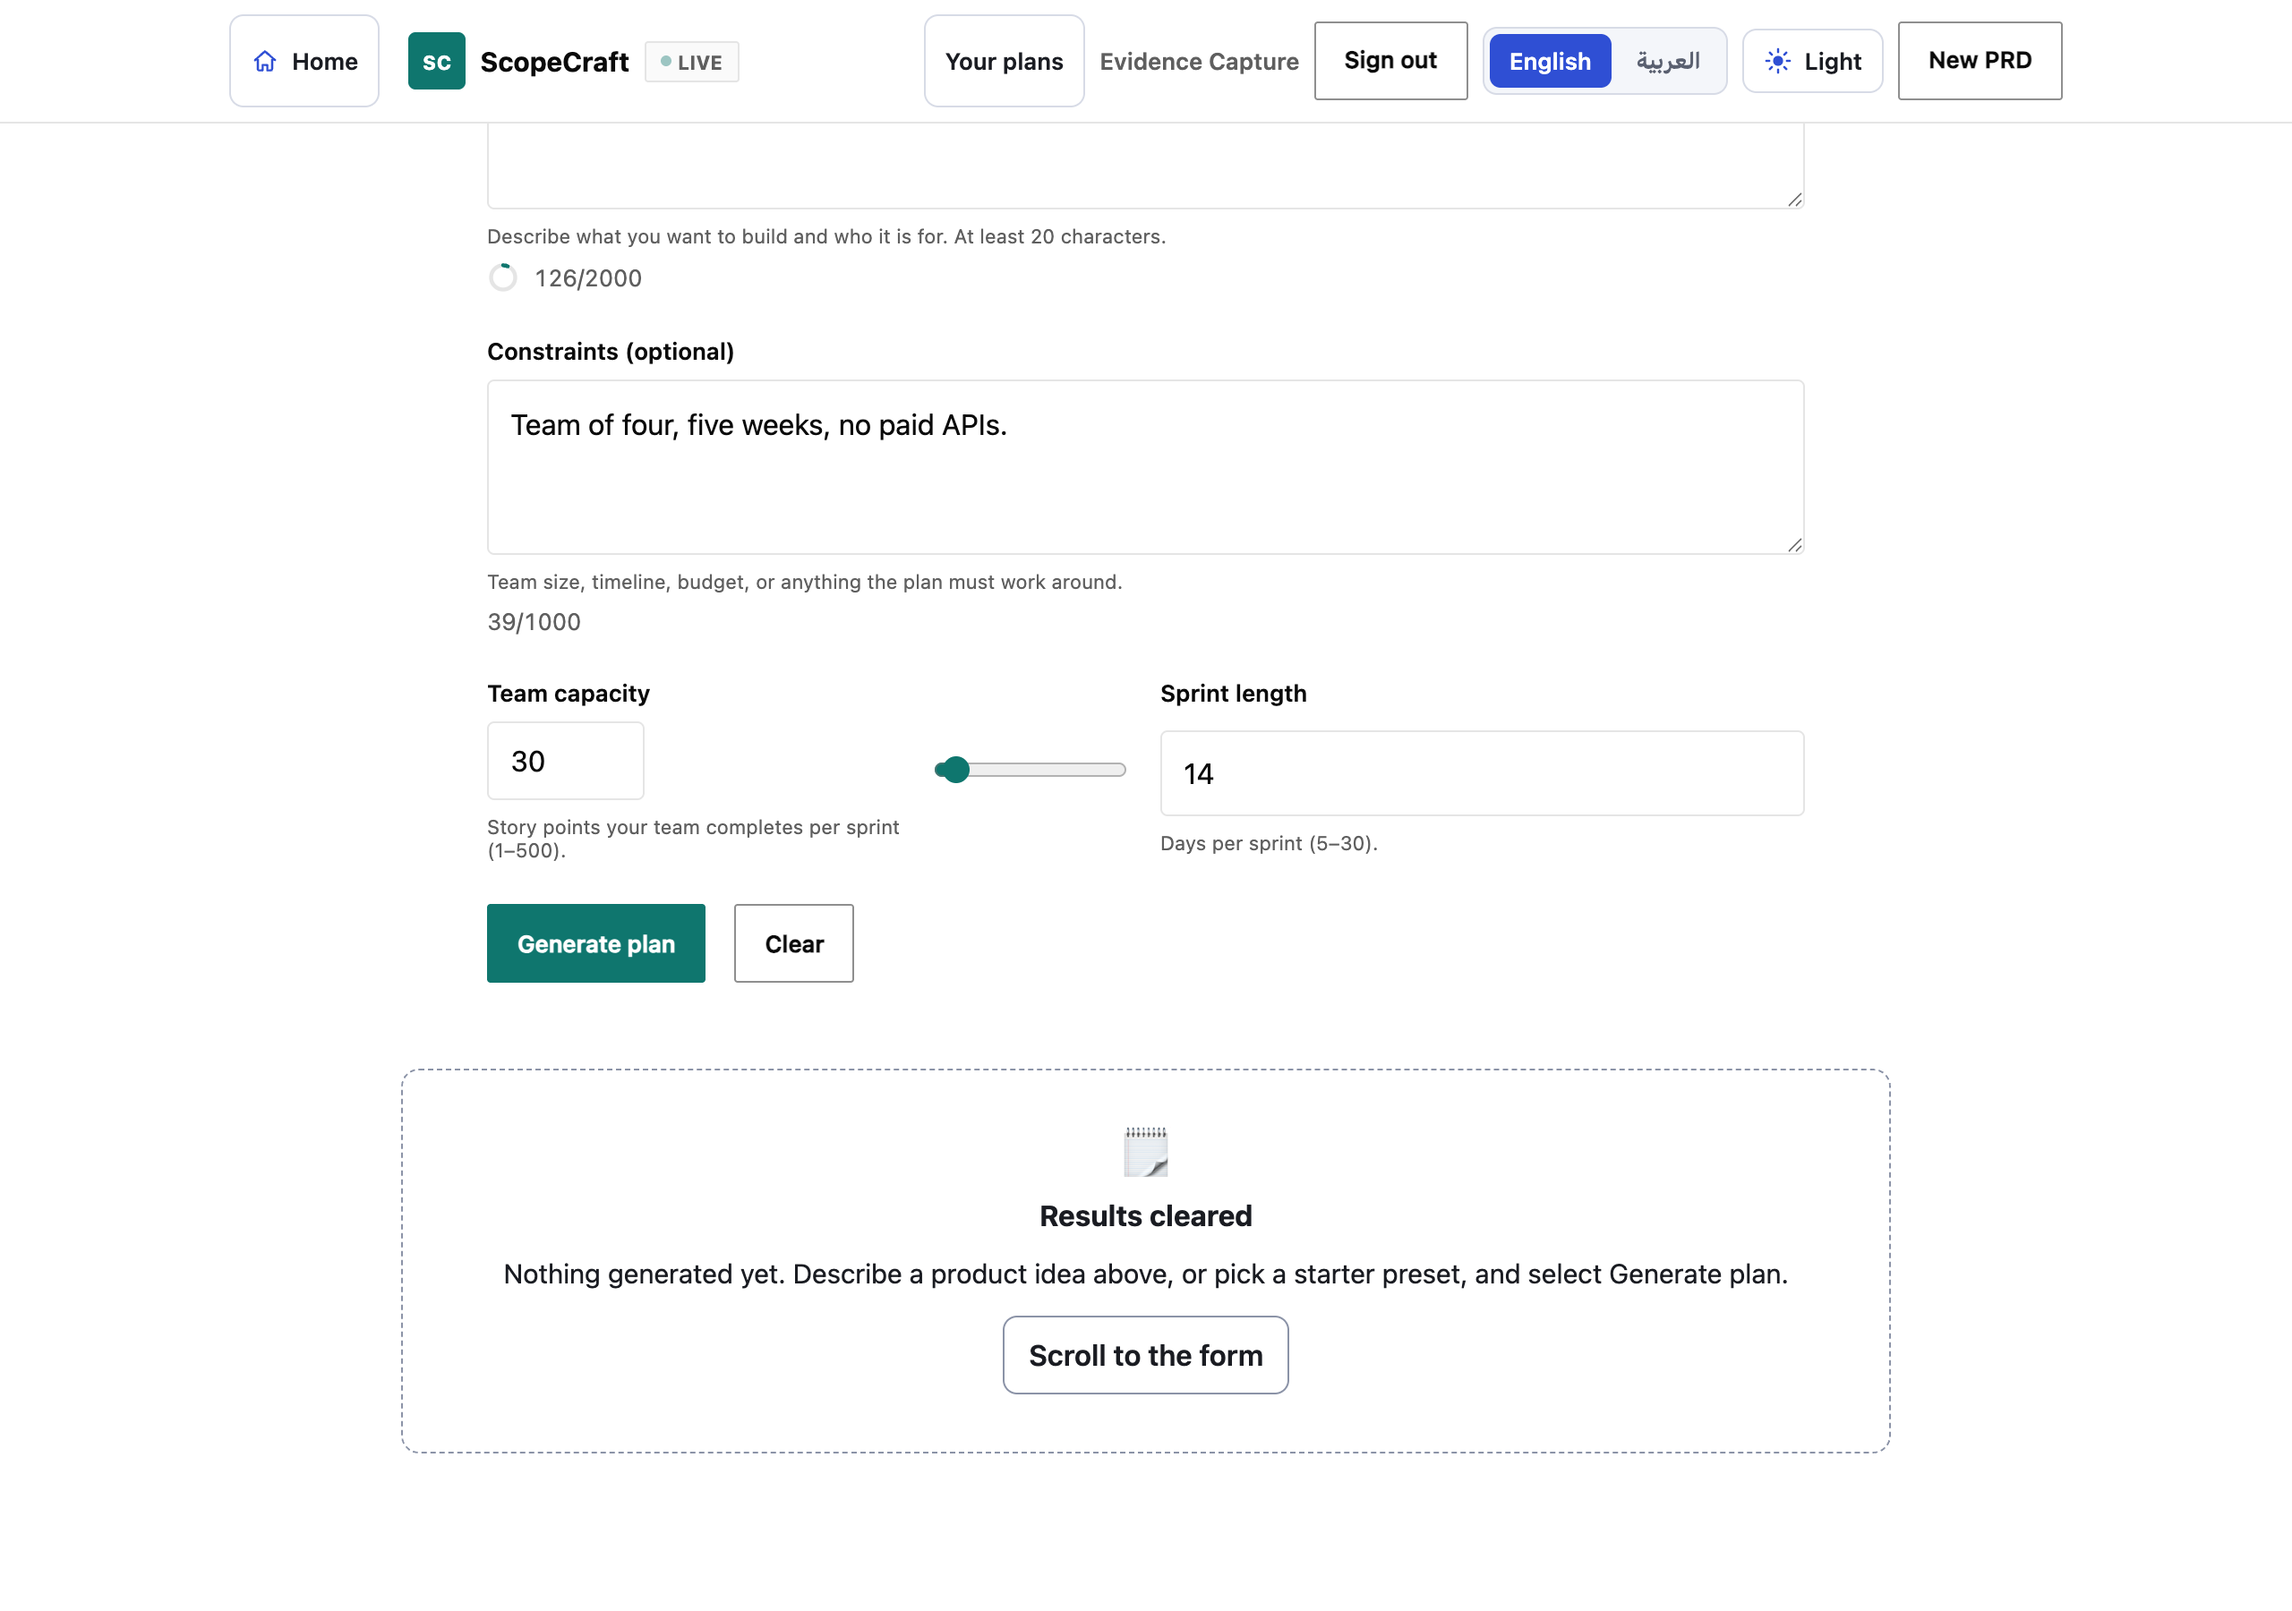
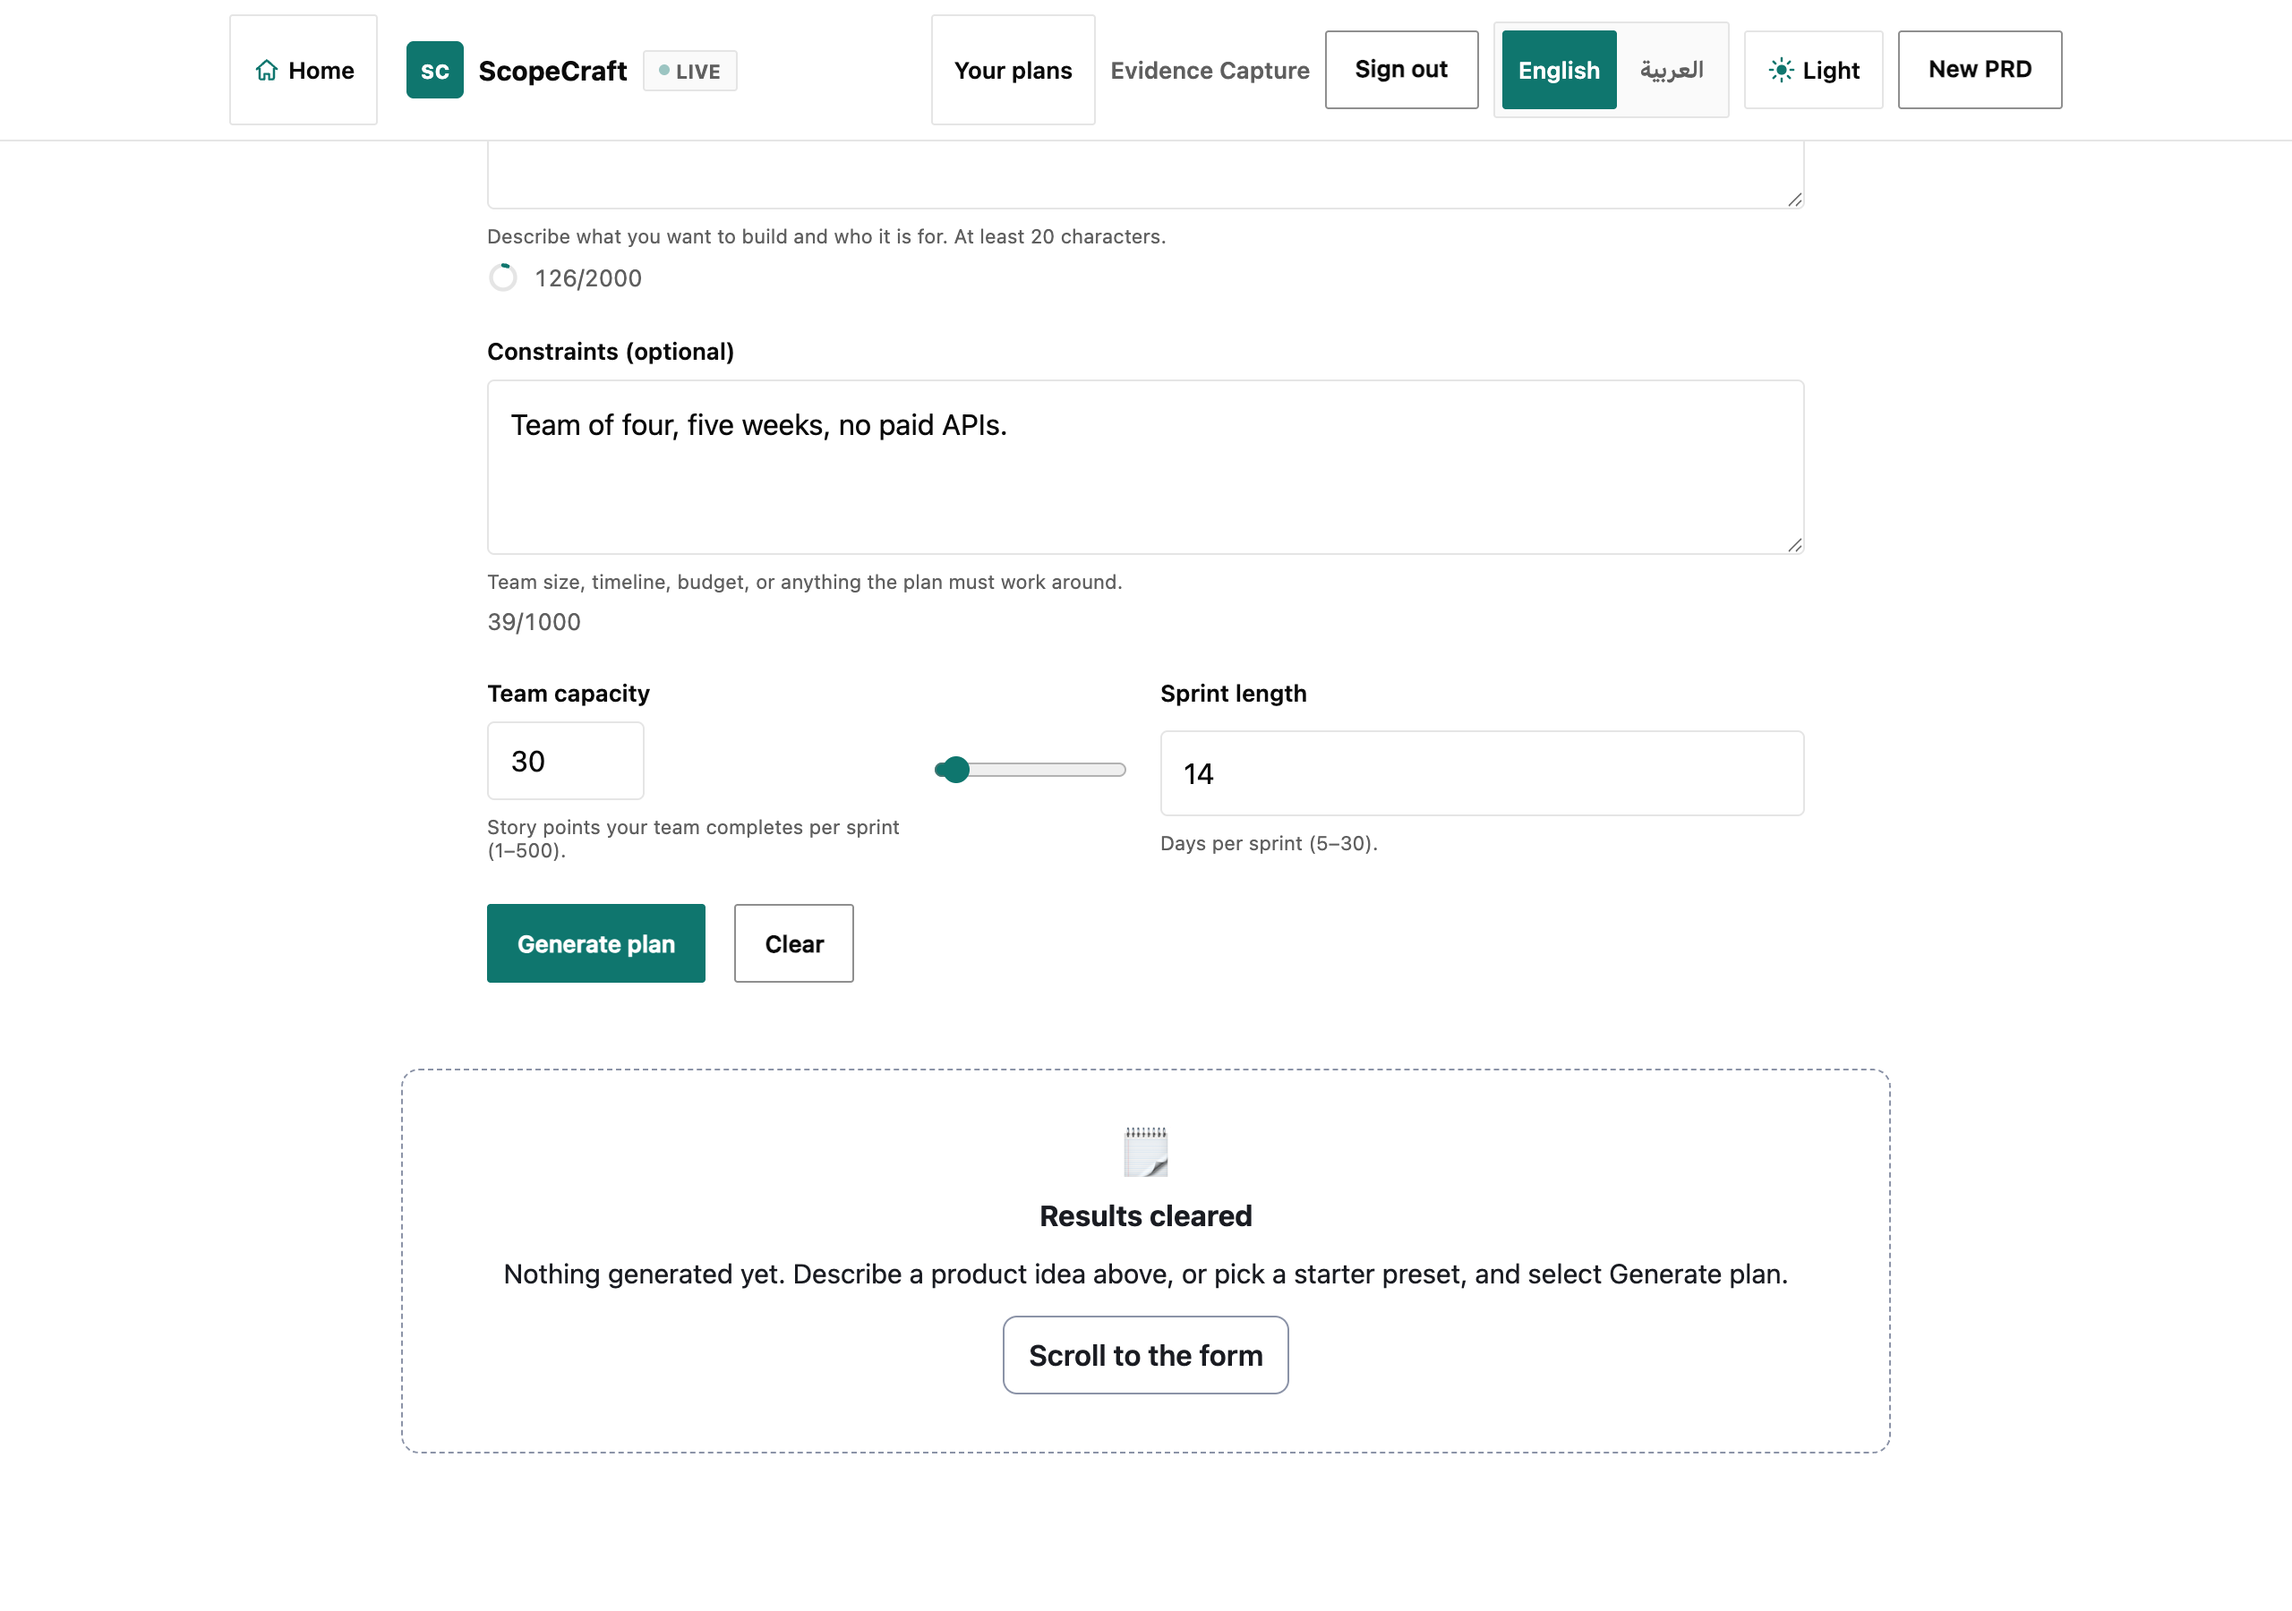
docs: close decision-log entry 31 and Point 2, recapture the evidence
Entry 31 named its own closure condition -- "it closes when the toggles are
rebuilt and come off the exemption list" -- and both halves are now met. It
also recorded, for four points, that the 8px mismatch had never actually
been seen rendered. It has now: 01-idle-desktop-light.png shows the
signed-in header on one line at one height.

The audit moved with it. The Home link's contrast rose from 17.03 to 19.8 in
light and 13.71 to 14.48 in dark, its surface having changed from the legacy
raised grey to --c-panel. Light went from 19 measured combinations to 18 --
a merge, not a loss, since that background is now identical to the ground it
sits on. Interactive controls stayed at 16 with 0 unnamed, and every
combination still passes AA.

The board's capacity readout differs from the last capture because the
generation is not deterministic, not because the board changed.

Legacy references 132 to 113.

Changed region(s): [[0.4062, 0.0, 0.9062, 0.0933], [0.0938, 0.0311, 0.3125, 0.0933]]

diff --git a/docs/decision-log.md b/docs/decision-log.md
@@ -864,6 +864,30 @@ nonce or hash policy and saying so is more useful than closing the row.
     the auth gate and were never seen rendered. The unit suite proves they use the primitive;
     nothing has yet confirmed how the mismatch actually looks.
 
+    **Closed 2026-09-03, Point 2, commit `596cea0`.** `ToggleControls.module.css` was
+    rebuilt onto the `--c-*` tokens and every box in it is now `2.75rem`, the number
+    `Button` states. `PRE_REBUILD_EXEMPT` is empty, so the condition this entry named
+    for its own closure — "it closes when the toggles are rebuilt and come off the
+    exemption list" — is met on both halves.
+
+    **And it has now been seen.** The paragraph above is the reason to say so
+    explicitly: the mismatch was recorded for four points without anyone having looked
+    at it. `docs/evidence/ui/shots/01-idle-desktop-light.png`, recaptured against this
+    build, shows the signed-in header — Home, Your plans, Sign out, the language
+    segmented control and the theme toggle — sitting on one line at one height. The
+    audit's own numbers moved with it: the Home link's contrast rose from 17.03 to 19.8
+    in light and 13.71 to 14.48 in dark, because its surface changed from the legacy
+    raised grey to `--c-panel`. Light dropped from 19 measured combinations to 18 — a
+    merge, not a loss, since the link's background is now identical to the ground it
+    sits on. Interactive controls stayed at 16 with 0 unnamed.
+
+    **What keeps it closed:** `tests/evaluation/design-tokens.test.ts` reads
+    `Button.module.css` and `ToggleControls.module.css` from disk and fails if any
+    control in the latter declares a different `min-block-size` from the former. jsdom
+    resolves no CSS — `identity-obj-proxy` returns the class name and nothing else — so
+    a rendered assertion would have passed whatever the values were. The check was
+    confirmed to fail by breaking it before it was kept.
+
 32. **The token set gained an error colour it never had — 2026-09-02, Module D2.**
     The ten roles approved in Module C carry no way to say "this is wrong".
     That went unnoticed because nothing had used them yet; D2 put a

diff --git a/docs/superpowers/plans/2026-09-03-ui-completion.md b/docs/superpowers/plans/2026-09-03-ui-completion.md
@@ -66,7 +66,7 @@ a real bug in this project.
 | Occurrences | File | Point |
 |---:|---|---|
 | ~~37~~ **0** | `InteractiveSprintBoard.module.css` | 1 ✅ |
-| 19 | `ToggleControls.module.css` | 2 |
+| ~~19~~ **0** | `ToggleControls.module.css` | 2 ✅ |
 | 26 | `HistoryList.module.css` | 3 |
 | 2 | `SavedPlanView.module.css` | 3 |
 | 16 | `LoginCard.module.css` | 4 |
@@ -78,7 +78,7 @@ a real bug in this project.
 | 7 | `ExportActions.module.css` | 6 |
 | 3 | `BackLink.module.css` | 6 |
 | 2 | `layout.tsx` | 6 |
-| **169** → **132** | | Point 1 done |
+| **169** → **113** | | Points 1–2 done |
 
 The only three non-approved media queries left were `ToggleControls` (`max-width: 34rem`
 ×2) and `InteractiveSprintBoard` (`max-width: 42rem`) — which was exactly the two-entry
@@ -174,6 +174,24 @@ row sits uneven.
 
 **Check:** breakpoint audit passes with an empty exemption list. `ThemeAndLocale.test.tsx`
 passes unchanged.
+
+**Done 2026-09-03, commits `596cea0`, `051263f`.** Both checks met; the exemption list
+is `[]` and its assertion was kept rather than deleted, so the list cannot quietly
+reopen. `Header.tsx` and `HistoryLink.tsx` were also consumers of this stylesheet — the
+plan listed only the two toggles — but both use `.linkButton` through `className`, so
+neither needed a component change.
+
+Two things the plan did not anticipate. The controls **stay hand-rolled** rather than
+adopting `Button`: two of the four are not buttons (`.linkButton` is an `<a>`,
+`.segment` is a `role="radio"`), and promoting only the one real button would have
+recreated the mismatch this point exists to remove — so the invariant is enforced by a
+test that reads both stylesheets instead. And the condensed labels **must stay visually
+hidden rather than `display: none`**: `.segmentShort` is `aria-hidden`, so the full
+label is the only thing naming its radio, and removing it from the layout would leave
+the language control nameless on every phone.
+
+Entry 31 is closed, and the header was **looked at** for the first time — that entry had
+recorded the mismatch for four points while explicitly noting nobody had seen it.
 
 ---
 
